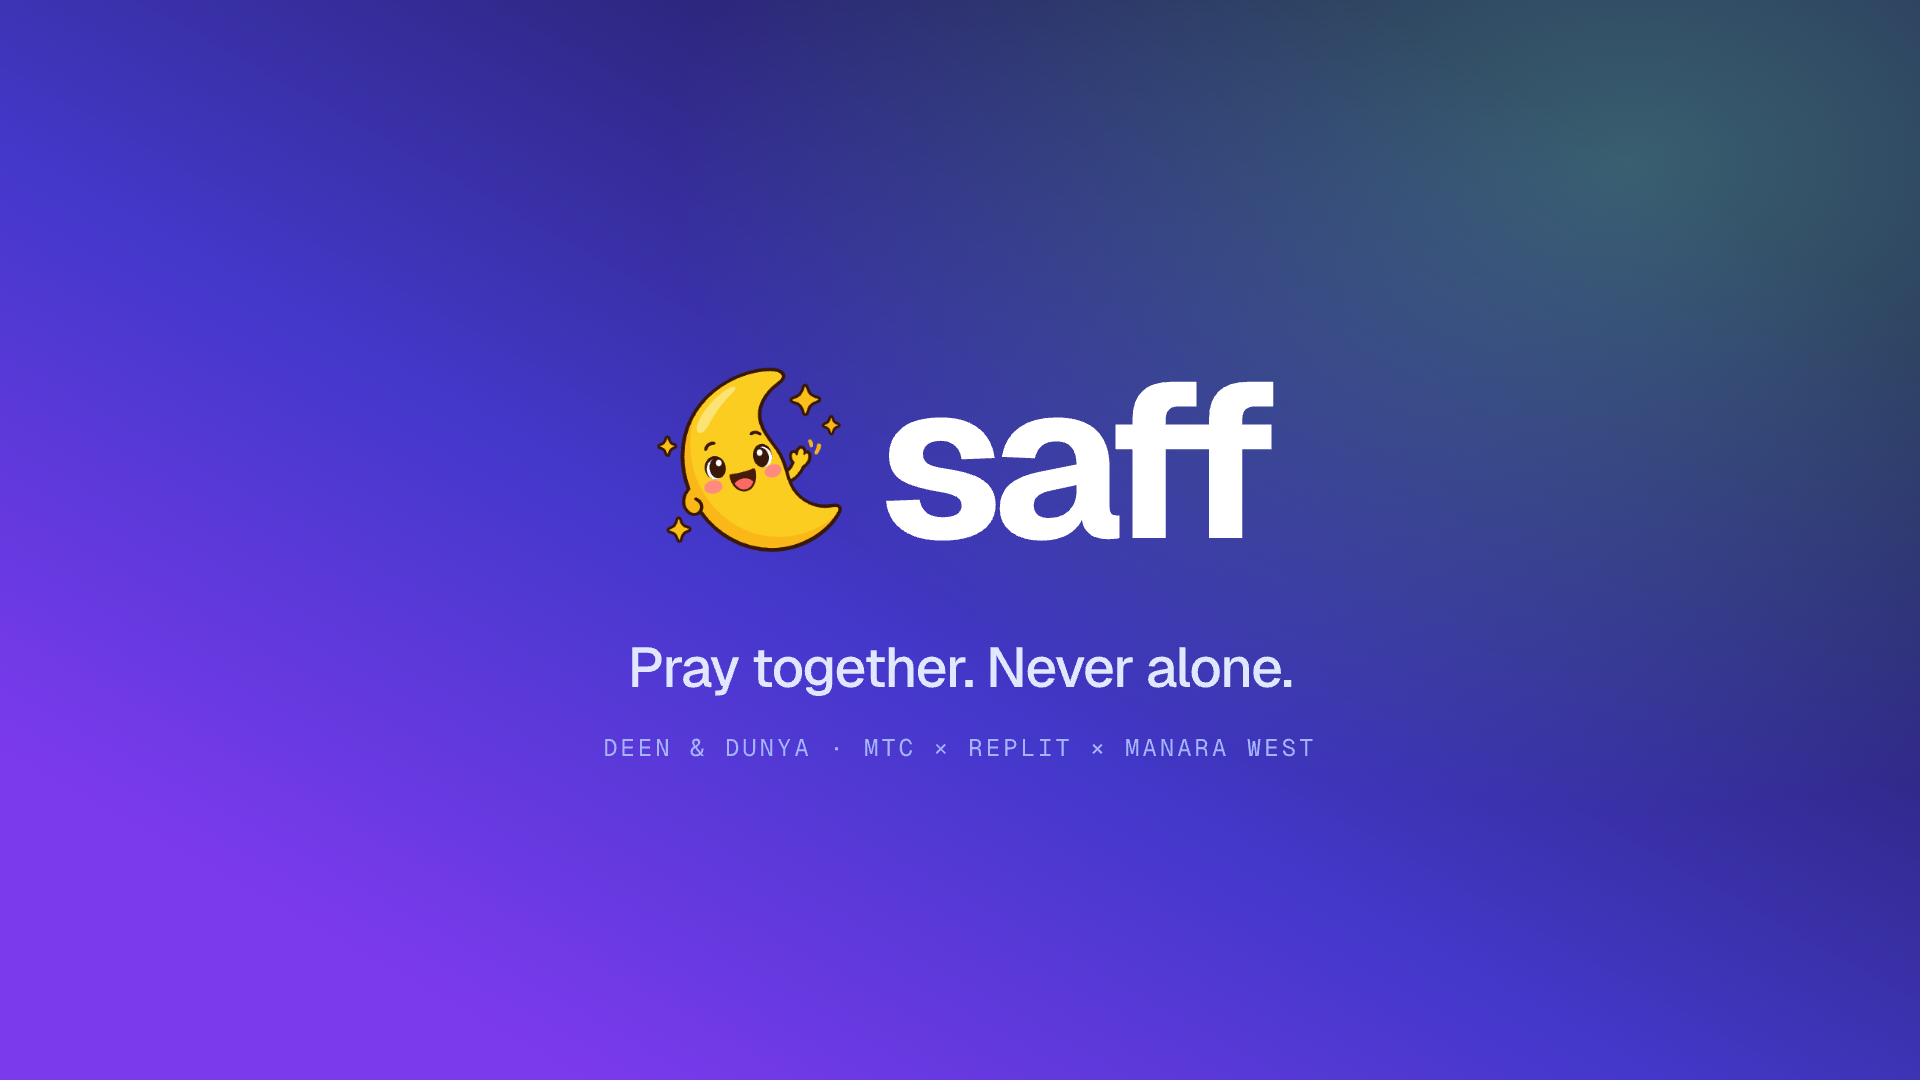
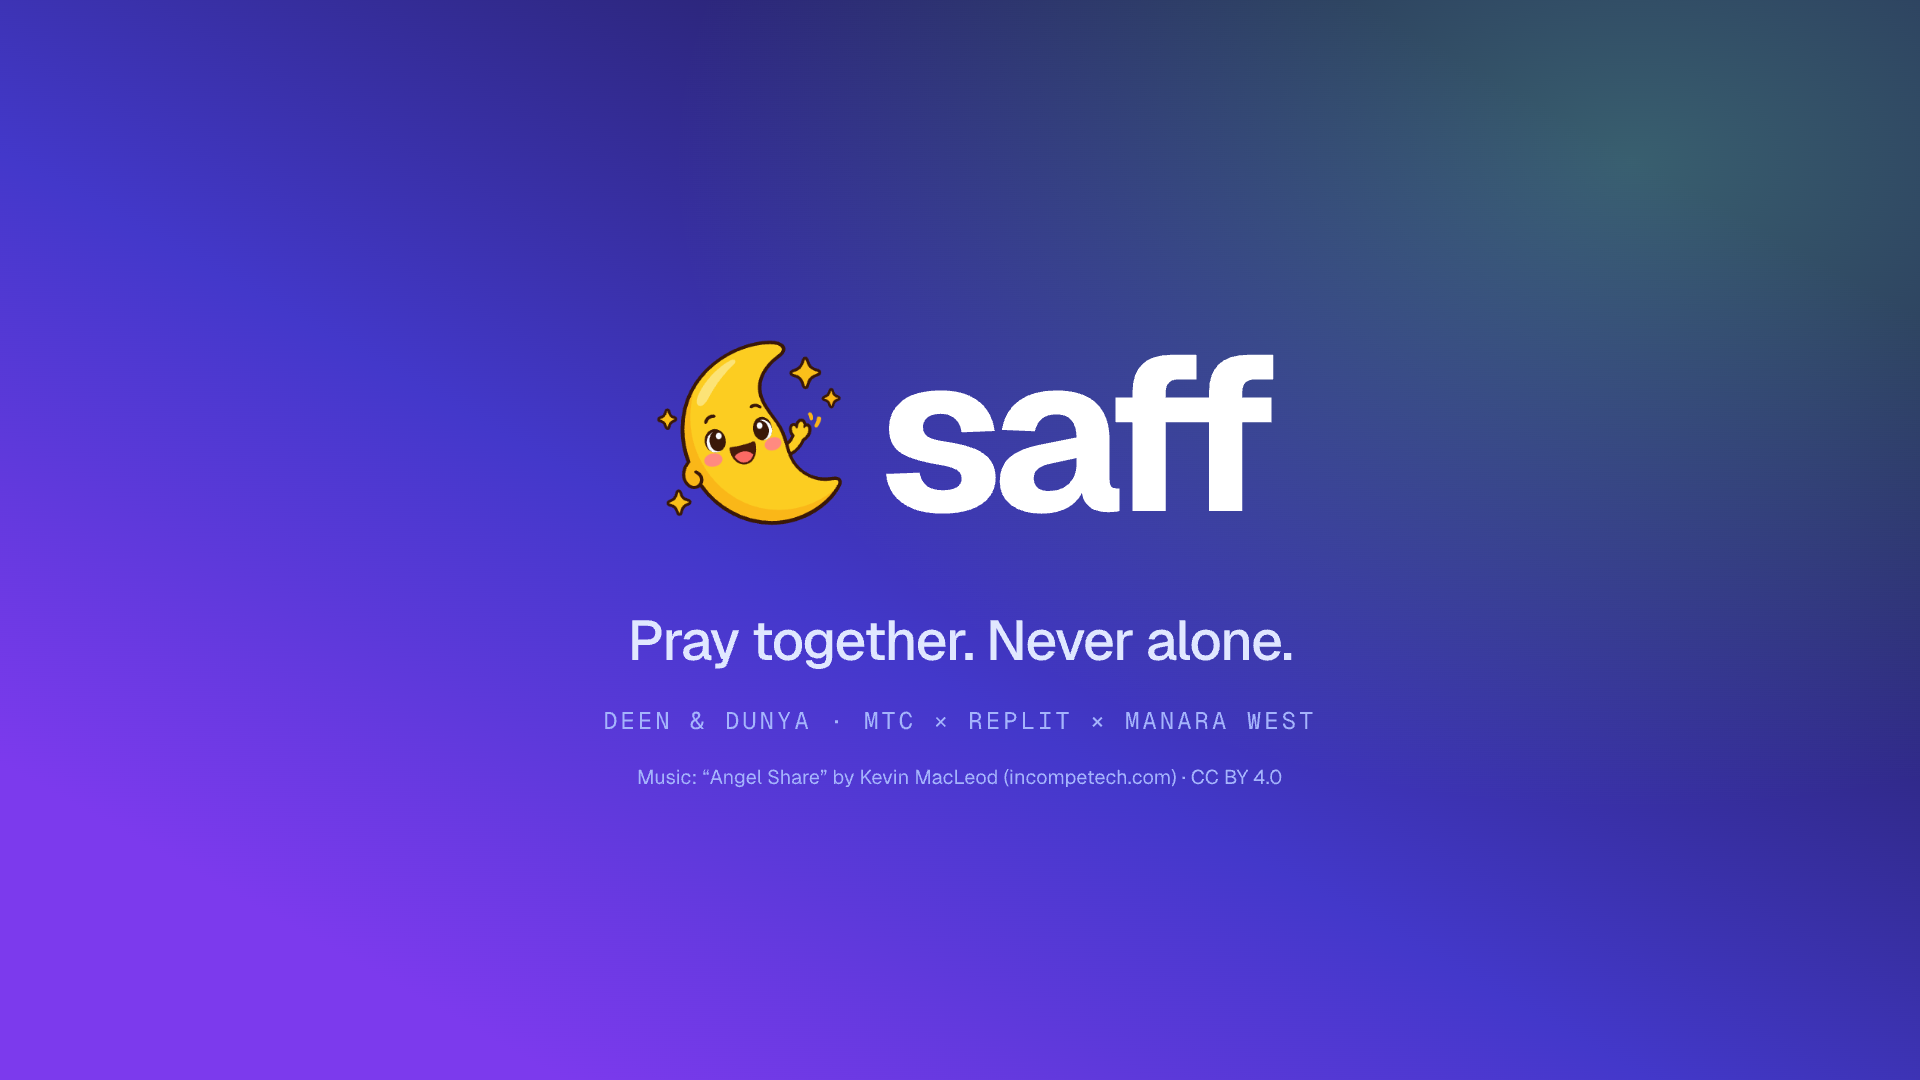
Video: Angel Share chosen (CC BY 4.0), credit on end card; kino project saff-60 prepped

Changed region(s): [[0.3438, 0.3056, 0.6875, 0.5194], [0.3125, 0.5806, 0.6875, 0.7333]]

diff --git a/video/README.md b/video/README.md
@@ -16,7 +16,7 @@
 
 **Pipeline (Claude runs it):** `node video/tools/analyze.mjs` sorts the inbox by recording time, classifies each file (camera / screen / memo), and syncs memo↔camera and screen↔walk by sound. It writes `video/raw/plan.json`. Then Claude builds the kino project from the plan: imports, layout, captions (`add_captions speech`, fixing "SAF" → "Saff"), title/end cards, music ducked under the voice, and renders to `video/exports/`.
 
-**Music:** many in the MSA avoid instrumental music, so the **default is no music**: voice, natural sound, and a soft whoosh on the cuts. If the team wants a bed anyway, kino's licensed library (Kevin MacLeod, CC BY 4.0, credit in the end card) fits "Angel Share" (uplifting, calm, 85 bpm) or "Eternity" (lofi, calm). A vocals-only nasheed dropped into `video/music/` also works. Say which.
+**Music (chosen):** "Angel Share" by Kevin MacLeod (incompetech.com), CC BY 4.0, ducked under the voice. The credit is on the end card. `video/music/angel-share.mp3` is downloaded and sha256-checked; it's gitignored, so the kino project `saff-60` already holds a copy.
 
 **Brand assets:** `assets/brand/` has `logo-on-dark.png`, `logo-on-light.png`, `title-card-16x9.png`, and `end-card-16x9.png` (from `design/saff.pen`).
 
